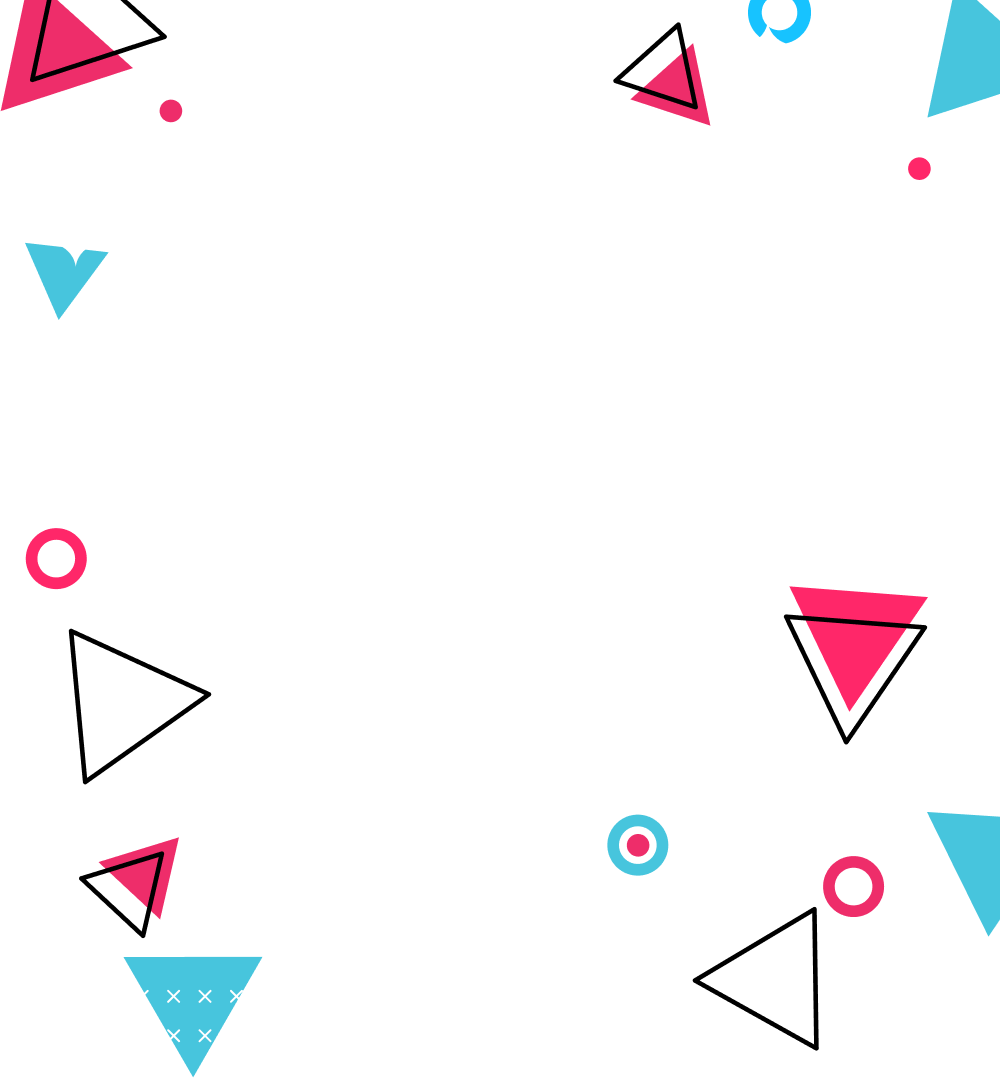
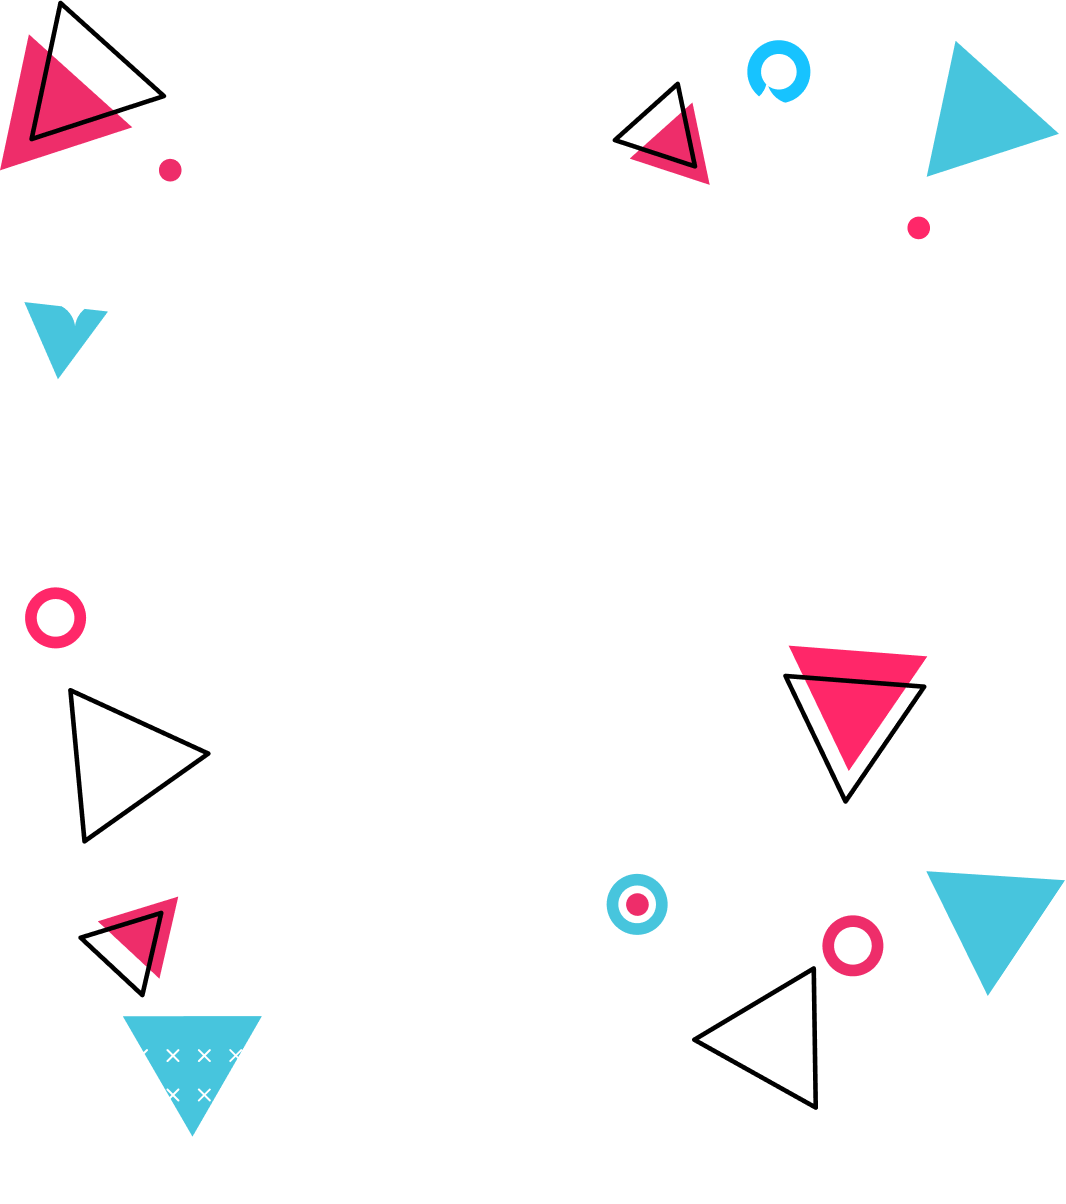
fix bgs

diff --git a/src/index.scss b/src/index.scss
@@ -3,19 +3,23 @@
 @import 'assets/styles/variables.scss';
 @import 'assets/styles/media_mixins.scss';
 
-body,html {
-  background: radial-gradient(81.52% 99.45% at 49.26% 5.96%, #42D0EA 19.75%, #47C5DD 61.41%, #47C5DD 67.67%, #2999AD 100%);
+body,
+html {
   background-size: 100vw 100vh;
 
-    /* fix for iOS Safari */
-    transform: translate3d(0,0,0);
-    -webkit-transform: translate3d(0,0,0);
-    -moz-transform: translate3d(0,0,0);
-    -ms-transform: translate3d(0,0,0);
-    -o-transform: translate3d(0,0,0);
-    background: #59cae4;
-    background-position: center bottom;
-    background-repeat: no-repeat;
-    background-size: cover;
-    background-attachment: fixed;
+  /* fix for iOS Safari */
+  transform: translate3d(0, 0, 0);
+  -webkit-transform: translate3d(0, 0, 0);
+  -moz-transform: translate3d(0, 0, 0);
+  -ms-transform: translate3d(0, 0, 0);
+  -o-transform: translate3d(0, 0, 0);
+  background: radial-gradient(81.52% 99.45% at 49.26% 5.96%, #42D0EA 19.75%, #47C5DD 61.41%, #47C5DD 67.67%, #2999AD 100%);
+  background-position: center bottom;
+  background-repeat: no-repeat;
+  background-size: cover;
+  background-attachment: fixed;
+}
+
+html {
+  background: #59cae4;
 }

diff --git a/src/screens/Start/Start.module.scss b/src/screens/Start/Start.module.scss
@@ -17,7 +17,7 @@
   justify-content: space-between;
 
   @include _1080 {
-    background: url('../../assets/images/bg-start-pc.png') center center;
+    background: url('../../assets/images/bg-start-pc.png') 53.5% center;
     background-repeat: no-repeat;
     background-size: contain;
     padding: 2% 0 4% 0;
